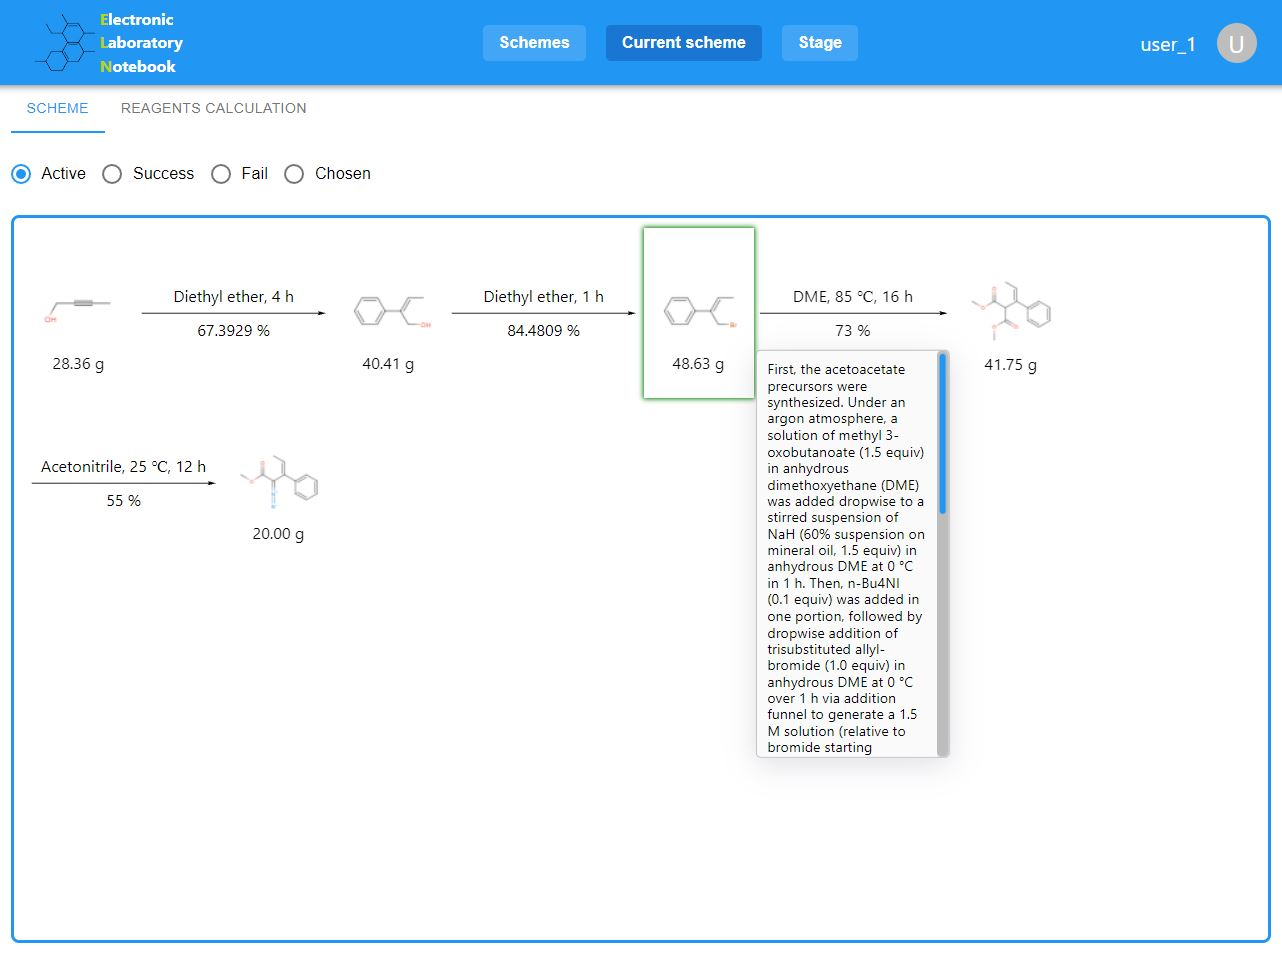
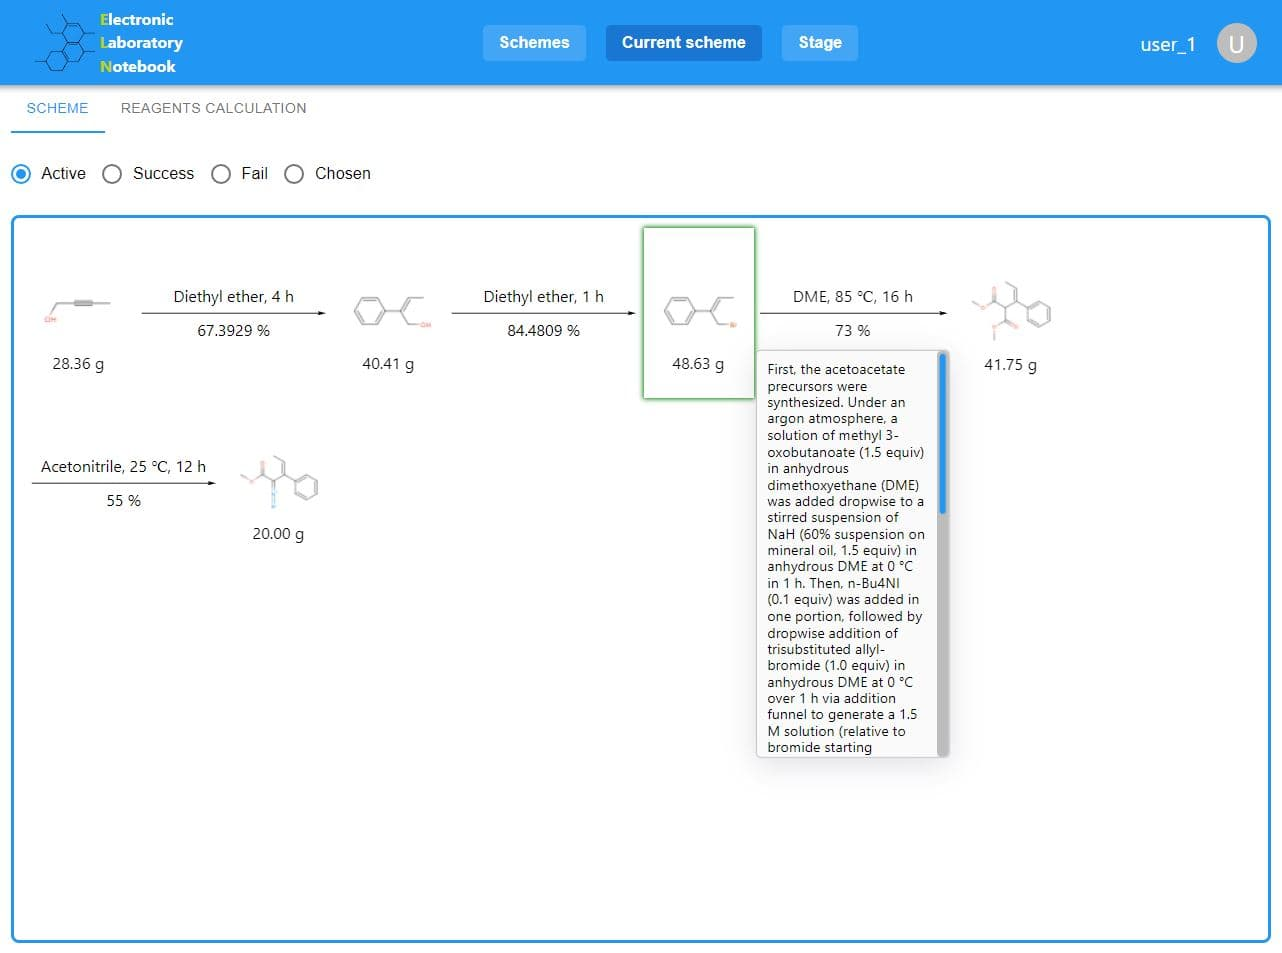
images optimization

diff --git a/src/modules/DescriptionSection/DescriptionSection.tsx b/src/modules/DescriptionSection/DescriptionSection.tsx
@@ -1,9 +1,9 @@
 import * as S from "./DescriptionSection.styled";
-import SchemesPageImage from "./../../images/Schemes-page.JPG";
-import NewSchemePage from "./../../images/New-scheme-page.JPG";
-import SingleSchemePage from "./../../images/Single-scheme-page1.JPG";
-import SingleSchemePageReagents from "./../../images/Single-scheme-page-reagents.JPG";
-import SingleStagePage from "./../../images/Single-stage-page.JPG";
+import SchemesPageImage from "./../../images/Schemes-page.jpg";
+import NewSchemePage from "./../../images/New-scheme-page.jpg";
+import SingleSchemePage from "./../../images/Single-scheme-page1.jpg";
+import SingleSchemePageReagents from "./../../images/Single-scheme-page-reagents.jpg";
+import SingleStagePage from "./../../images/Single-stage-page.jpg";
 
 const DescriptionSection = () => {
   return (
